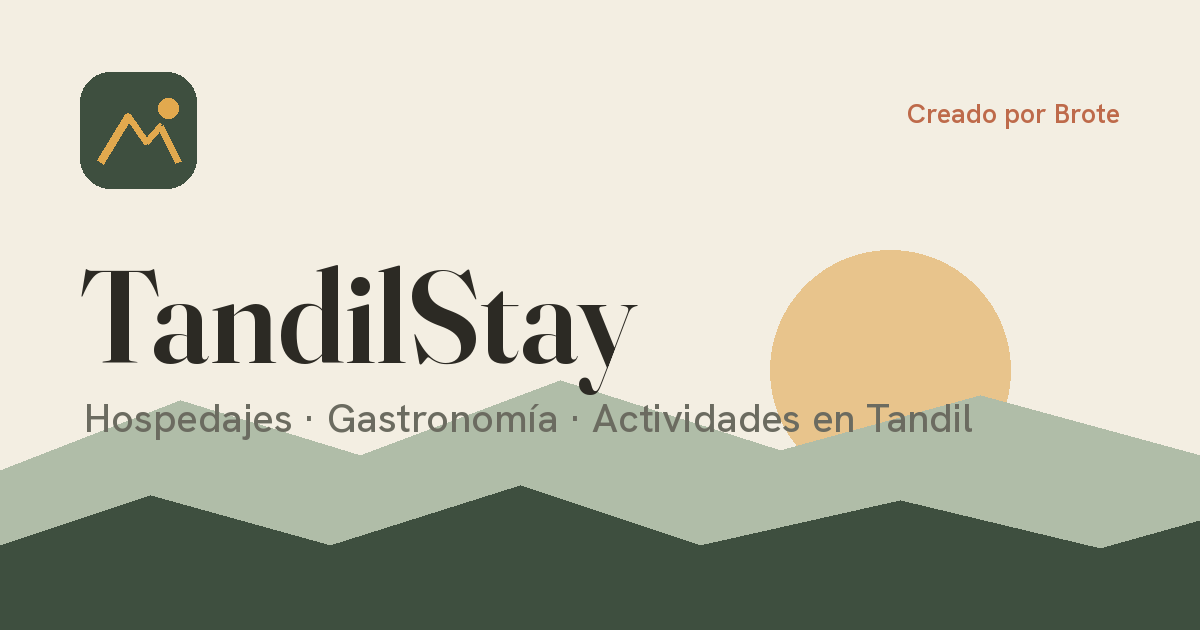
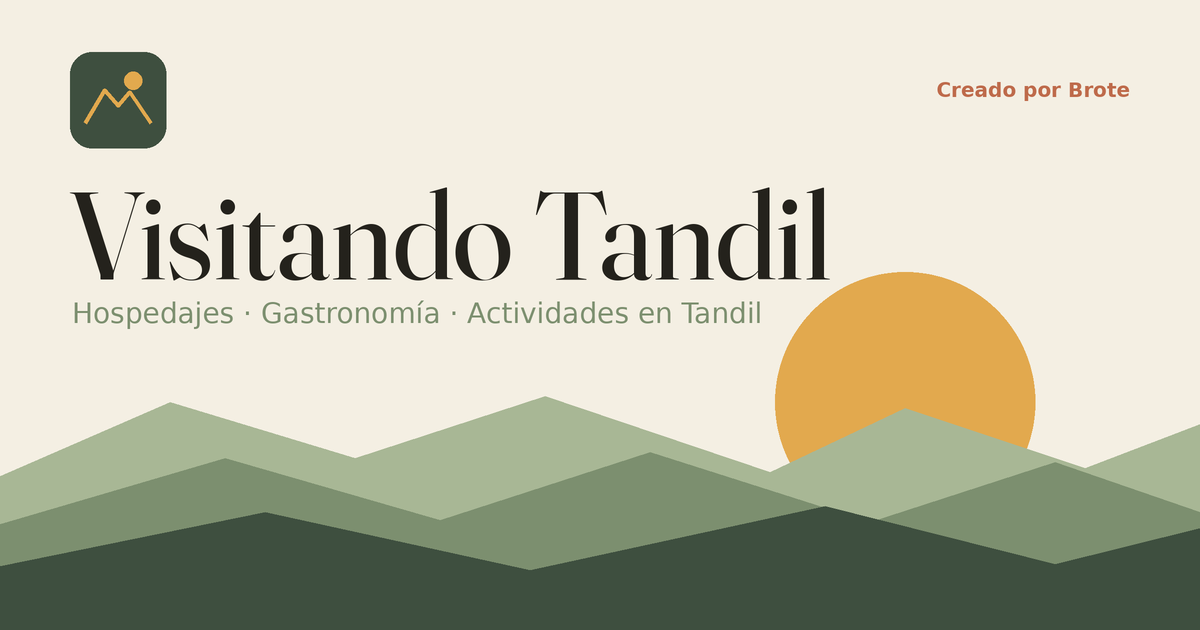
Add files via upload

diff --git a/index.html b/index.html
@@ -12,14 +12,14 @@
 <meta property="og:title" content="Visitando Tandil · Hospedajes, gastronomía y actividades en Tandil" />
 <meta property="og:description" content="Visitando Tandil en un solo lugar: dónde dormir, dónde comer y qué hacer entre las sierras." />
 <meta property="og:url" content="https://delfinafelice0-pixel.github.io/tandilstay/" />
-<meta property="og:image" content="https://delfinafelice0-pixel.github.io/tandilstay/og.png" />
+<meta property="og:image" content="https://delfinafelice0-pixel.github.io/tandilstay/og.png?v=2" />
 <meta property="og:image:width" content="1200" />
 <meta property="og:image:height" content="630" />
 <meta property="og:image:alt" content="Visitando Tandil" />
 <meta name="twitter:card" content="summary_large_image" />
 <meta name="twitter:title" content="Visitando Tandil · Hospedajes, gastronomía y actividades en Tandil" />
 <meta name="twitter:description" content="Visitando Tandil en un solo lugar: dónde dormir, dónde comer y qué hacer entre las sierras." />
-<meta name="twitter:image" content="https://delfinafelice0-pixel.github.io/tandilstay/og.png" />
+<meta name="twitter:image" content="https://delfinafelice0-pixel.github.io/tandilstay/og.png?v=2" />
 <script src="https://unpkg.com/react@18/umd/react.production.min.js"></script>
 <script src="https://unpkg.com/react-dom@18/umd/react-dom.production.min.js"></script>
 <script src="https://unpkg.com/@babel/standalone@7.29.7/babel.min.js"></script>
@@ -84,6 +84,44 @@ const FACTS = [
   { e:"🪨", text:"Las sierras de Tandil están entre las más antiguas del planeta: más de 2.000 millones de años." },
   { e:"⛰️", text:"La Piedra Movediza original se desplomó en 1912; la actual es una réplica de 2007." },
   { e:"🚌", text:"Tandil está a menos de 4 horas de CABA, ideal para un finde largo." },
+];
+
+const PLACES = [
+  { n:"Plaza Independencia", cat:"Centro", b:"El corazón de la ciudad: diseño simétrico, mucha arboleda y la parroquia enfrente." },
+  { n:"Parroquia Santísimo Sacramento", cat:"Centro", b:"El principal templo católico de Tandil, frente a la plaza." },
+  { n:"Palacio Municipal", cat:"Centro", b:"Edificio cívico de 1920, una joya de la arquitectura local." },
+  { n:"Parque Independencia", cat:"Sierras", b:"Mirador público con el Castillo Morisco en la cima y vistas a toda la ciudad." },
+  { n:"Castillo Morisco", cat:"Sierras", b:"Uno de los íconos de Tandil, donado por la comunidad española." },
+  { n:"Lago del Fuerte", cat:"Lago", b:"Espejo de agua y paseo central, ideal para caminar al atardecer." },
+  { n:"Monumento a Don Quijote de la Mancha", cat:"Lago", b:"Conjunto escultórico de hierro en un balcón natural sobre el lago." },
+  { n:"Monte Calvario", cat:"Sierras", b:"Complejo religioso de 1943 que recrea el Vía Crucis al aire libre." },
+  { n:"Cristo de las Sierras", cat:"Sierras", b:"Escultura de 10 metros con vistas panorámicas de las sierras." },
+  { n:"Cerro El Centinela", cat:"Sierras", b:"La famosa roca en equilibrio. Verlo desde abajo es gratis." },
+  { n:"Cerro del Libertador (El Cerrito)", cat:"Sierras", b:"Mirador con el Monumento al General Belgrano." },
+  { n:"Sendero de las Ánimas", cat:"Naturaleza", b:"Sendero serrano contemplativo, en una de las zonas más altas." },
+  { n:"Camino Misterioso", cat:"Naturaleza", b:"El tramo donde el auto parece subir solo: una ilusión óptica imperdible." },
+  { n:"Paseo de los Pioneros", cat:"Naturaleza", b:"3,4 km de camino serrano en homenaje a los picapedreros." },
+  { n:"Paseo de los Españoles", cat:"Lago", b:"Densa arboleda en el sector sur del Lago del Fuerte." },
+  { n:"Parque del Origen (de los Dinosaurios)", cat:"Familia", b:"Parque temático de la prehistoria junto a un arroyo. Ideal con chicos." },
+  { n:"Arroyo escondido — Parque del Origen", cat:"Naturaleza", b:"Un rincón con agua que muy poca gente conoce." },
+  { n:"Arroyo en la Escollera Oeste", cat:"Naturaleza", b:"Un rincón tranquilo y poco transitado en el dique." },
+];
+const mapsLink = (n) => "https://www.google.com/maps/search/?api=1&query=" + encodeURIComponent(n + ", Tandil, Buenos Aires");
+
+const ITINERARIES = [
+  { days:"1 día", sub:"El centro histórico a pie", plan:[
+    { d:"Mañana", stops:["Plaza Independencia","Parroquia Santísimo Sacramento","Palacio Municipal"] },
+    { d:"Tarde", stops:["Parque Independencia y Castillo Morisco","Lago del Fuerte","Monumento a Don Quijote"] },
+  ]},
+  { days:"2 días", sub:"Centro + sierras y monumentos", plan:[
+    { d:"Día 1 · El centro", stops:["Plaza Independencia","Parroquia Santísimo Sacramento","Parque Independencia y Castillo Morisco","Lago del Fuerte"] },
+    { d:"Día 2 · Las sierras", stops:["Monte Calvario","Cristo de las Sierras","Cerro El Centinela","Cerro del Libertador"] },
+  ]},
+  { days:"3 días", sub:"Lo mejor de la ciudad y la naturaleza", plan:[
+    { d:"Día 1 · El centro", stops:["Plaza Independencia","Parroquia Santísimo Sacramento","Palacio Municipal","Lago del Fuerte"] },
+    { d:"Día 2 · Monumentos serranos", stops:["Monte Calvario","Cristo de las Sierras","Parque Independencia y Castillo Morisco","Cerro del Libertador"] },
+    { d:"Día 3 · Naturaleza pura", stops:["Sendero de las Ánimas","Camino Misterioso","Paseo de los Pioneros","Parque del Origen (de los Dinosaurios)"] },
+  ]},
 ];
 
 function Horizon({ color }) {
@@ -452,15 +490,73 @@ function LodgingPage({ cabins, loading }) {
 }
 
 function AboutPage() {
+  const [it, setIt] = useState(2);
+  const sel = ITINERARIES[it];
+  const catColor = { Centro:C.clay, Sierras:C.moss, Lago:C.sage, Naturaleza:"#5e7a4f", Familia:C.sun };
   return (
     <div style={{ background: C.paper }}>
       <PageTitle kicker="La ciudad" title="Conocé Tandil" />
-      <section className="max-w-4xl mx-auto px-5 sm:px-6 pb-24">
+      <section className="max-w-4xl mx-auto px-5 sm:px-6 pb-16">
         <div className="rounded-lg overflow-hidden mb-10"><img src={IMG("photo-1500534314209-a25ddb2bd429")} className="w-full aspect-[16/8] object-cover" style={{ background:C.mist }} /></div>
         <p className="ff-body text-lg text-stone-600 leading-relaxed mb-4">Tandil es una ciudad serrana del centro de la provincia de Buenos Aires, rodeada de cerros milenarios, arroyos y aire limpio. Combina la calma del campo con la comodidad de una ciudad completa.</p>
         <p className="ff-body text-lg text-stone-600 leading-relaxed mb-12">Es famosa por sus embutidos y quesos artesanales, su turismo religioso en Semana Santa y sus paisajes de sierras suaves, perfectas para caminar, andar en bici o simplemente desconectar.</p>
         <h2 className="ff-display text-2xl mb-5" style={{ color: C.ink, fontWeight:400 }}>Datos curiosos</h2>
         <div className="grid sm:grid-cols-2 gap-4">{FACTS.map((f, i) => <div key={i} className="flex gap-3 bg-white border border-black/5 rounded-lg p-5"><span className="text-2xl">{f.e}</span><p className="ff-body text-sm text-stone-600 leading-relaxed">{f.text}</p></div>)}</div>
+      </section>
+
+      {/* ITINERARIOS */}
+      <section className="max-w-4xl mx-auto px-5 sm:px-6 pb-16">
+        <p className="ff-body text-[12px] uppercase tracking-[0.3em] font-semibold" style={{ color: C.sage }}>Armá tu viaje</p>
+        <h2 className="ff-display text-3xl sm:text-4xl mt-3 mb-2 leading-[1.05]" style={{ color: C.ink, fontWeight:300 }}>Itinerarios sugeridos</h2>
+        <p className="ff-body text-stone-500 mb-6 text-[17px]">¿Cuántos días te quedás? Te armamos un recorrido con los mejores lugares — todos gratis.</p>
+        <div className="flex gap-2 mb-8">
+          {ITINERARIES.map((p, i) => (
+            <button key={i} onClick={()=>setIt(i)} className="rounded-full px-5 py-2 ff-body text-sm font-semibold border transition" style={it===i ? { background:C.moss, borderColor:C.moss, color:"#fff" } : { borderColor:"rgba(36,34,28,0.18)", color:C.moss }}>{p.days}</button>
+          ))}
+        </div>
+        <p className="ff-body text-sm text-stone-400 mb-6 -mt-3">{sel.sub}</p>
+        <div className="space-y-6">
+          {sel.plan.map((day, di) => (
+            <div key={di} className="bg-white border border-black/5 rounded-2xl p-6">
+              <div className="ff-display text-xl mb-4" style={{ color: C.ink, fontWeight:400 }}>{day.d}</div>
+              <ol className="space-y-3">
+                {day.stops.map((s, si) => (
+                  <li key={si} className="flex items-start gap-3">
+                    <span className="shrink-0 w-6 h-6 rounded-full grid place-items-center ff-body text-[12px] font-semibold text-white mt-0.5" style={{ background:C.sage }}>{si+1}</span>
+                    <div className="flex-1 flex items-center justify-between gap-3">
+                      <span className="ff-body text-[15px]" style={{ color:C.ink }}>{s}</span>
+                      <a href={mapsLink(s)} target="_blank" rel="noreferrer" className="ff-body text-[13px] font-semibold whitespace-nowrap navlink" style={{ color:C.clay }}>Mapa →</a>
+                    </div>
+                  </li>
+                ))}
+              </ol>
+            </div>
+          ))}
+        </div>
+      </section>
+
+      {/* LUGARES GRATIS */}
+      <section className="max-w-6xl mx-auto px-5 sm:px-6 pb-24">
+        <div className="flex items-end justify-between gap-4 mb-6">
+          <div>
+            <p className="ff-body text-[12px] uppercase tracking-[0.3em] font-semibold" style={{ color: C.sage }}>Entrada libre</p>
+            <h2 className="ff-display text-3xl sm:text-4xl mt-3 leading-[1.05]" style={{ color: C.ink, fontWeight:300 }}>Lugares para visitar, gratis</h2>
+          </div>
+          <span className="ff-body text-[13px] text-stone-400 whitespace-nowrap">{PLACES.length} lugares</span>
+        </div>
+        <div className="grid sm:grid-cols-2 lg:grid-cols-3 gap-4">
+          {PLACES.map((p, i) => (
+            <div key={i} className="bg-white border border-black/5 rounded-2xl p-5 flex flex-col">
+              <div className="flex items-center gap-2 mb-2">
+                <span className="ff-body text-[11px] uppercase tracking-[0.16em] font-semibold rounded-full px-2.5 py-1" style={{ background:"#eef2e8", color: catColor[p.cat]||C.moss }}>{p.cat}</span>
+                <span className="ff-body text-[11px] font-semibold rounded-full px-2.5 py-1" style={{ background:"rgba(126,143,111,0.16)", color:C.moss }}>✦ Gratis</span>
+              </div>
+              <h3 className="ff-display text-xl leading-snug" style={{ color: C.ink, fontWeight:400 }}>{p.n}</h3>
+              <p className="ff-body text-sm text-stone-500 mt-1.5 leading-relaxed flex-1">{p.b}</p>
+              <a href={mapsLink(p.n)} target="_blank" rel="noreferrer" className="ff-body text-[13px] font-semibold mt-4 navlink self-start" style={{ color:C.clay }}>Ver en el mapa →</a>
+            </div>
+          ))}
+        </div>
       </section>
     </div>
   );